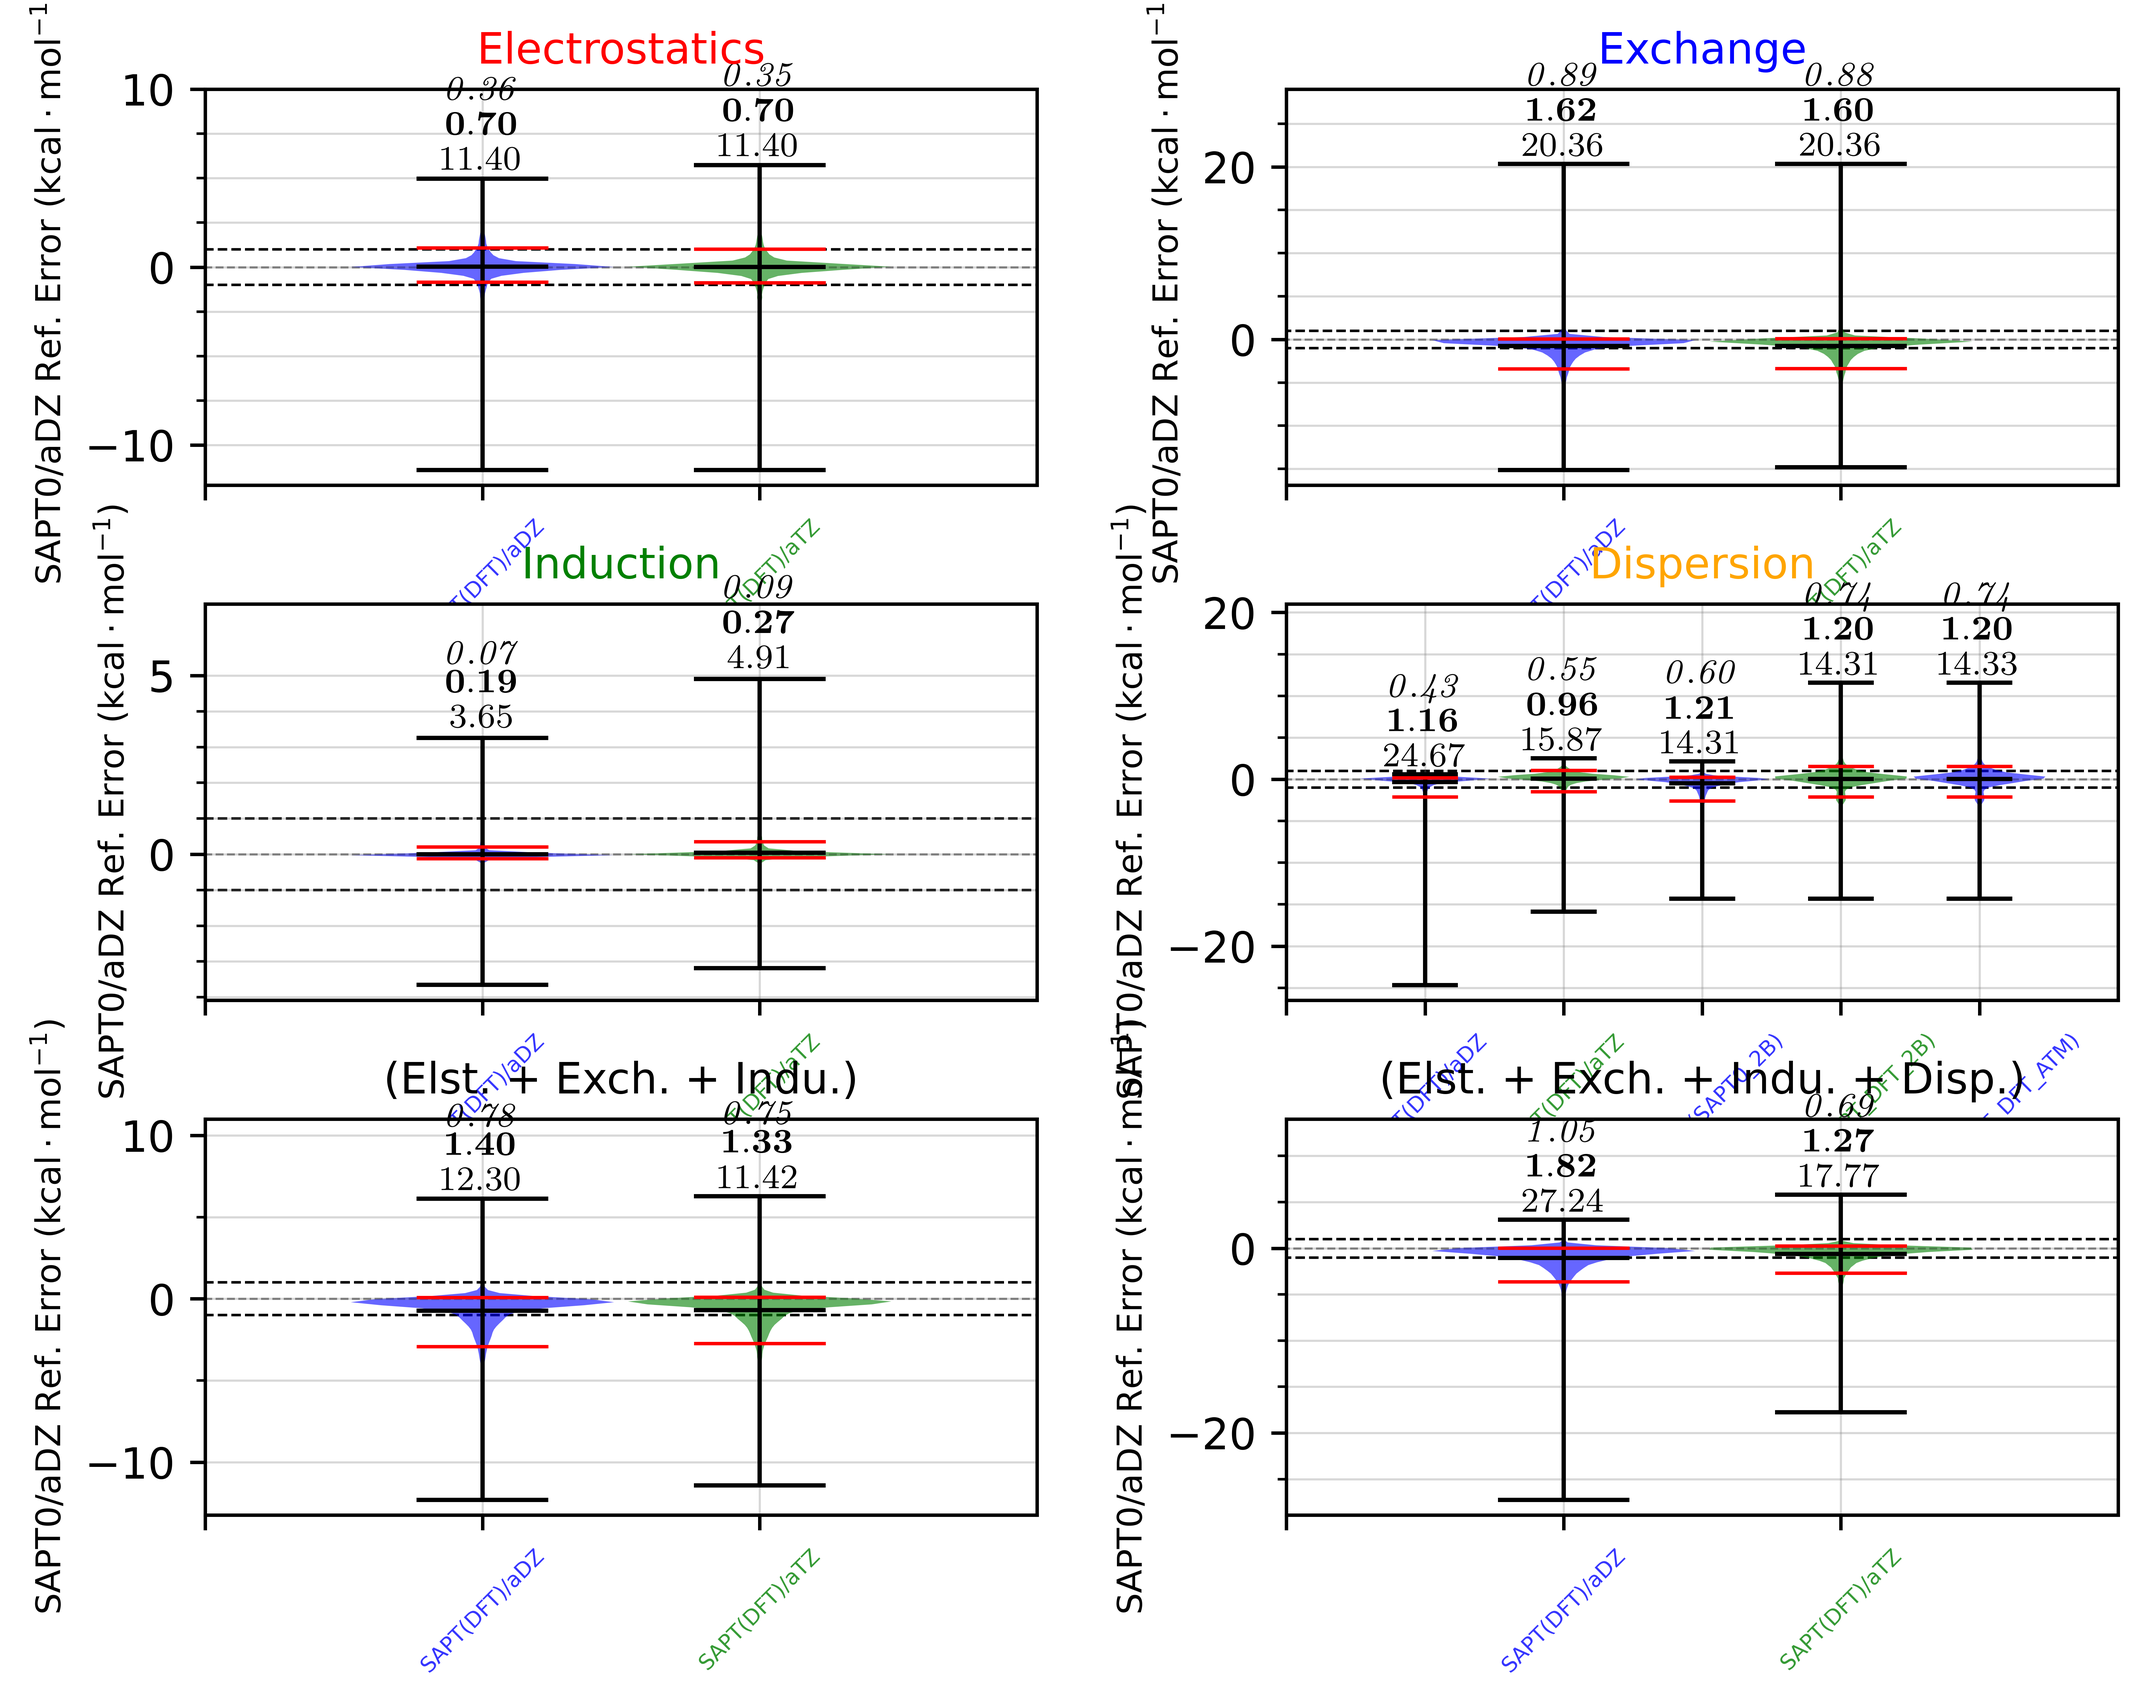
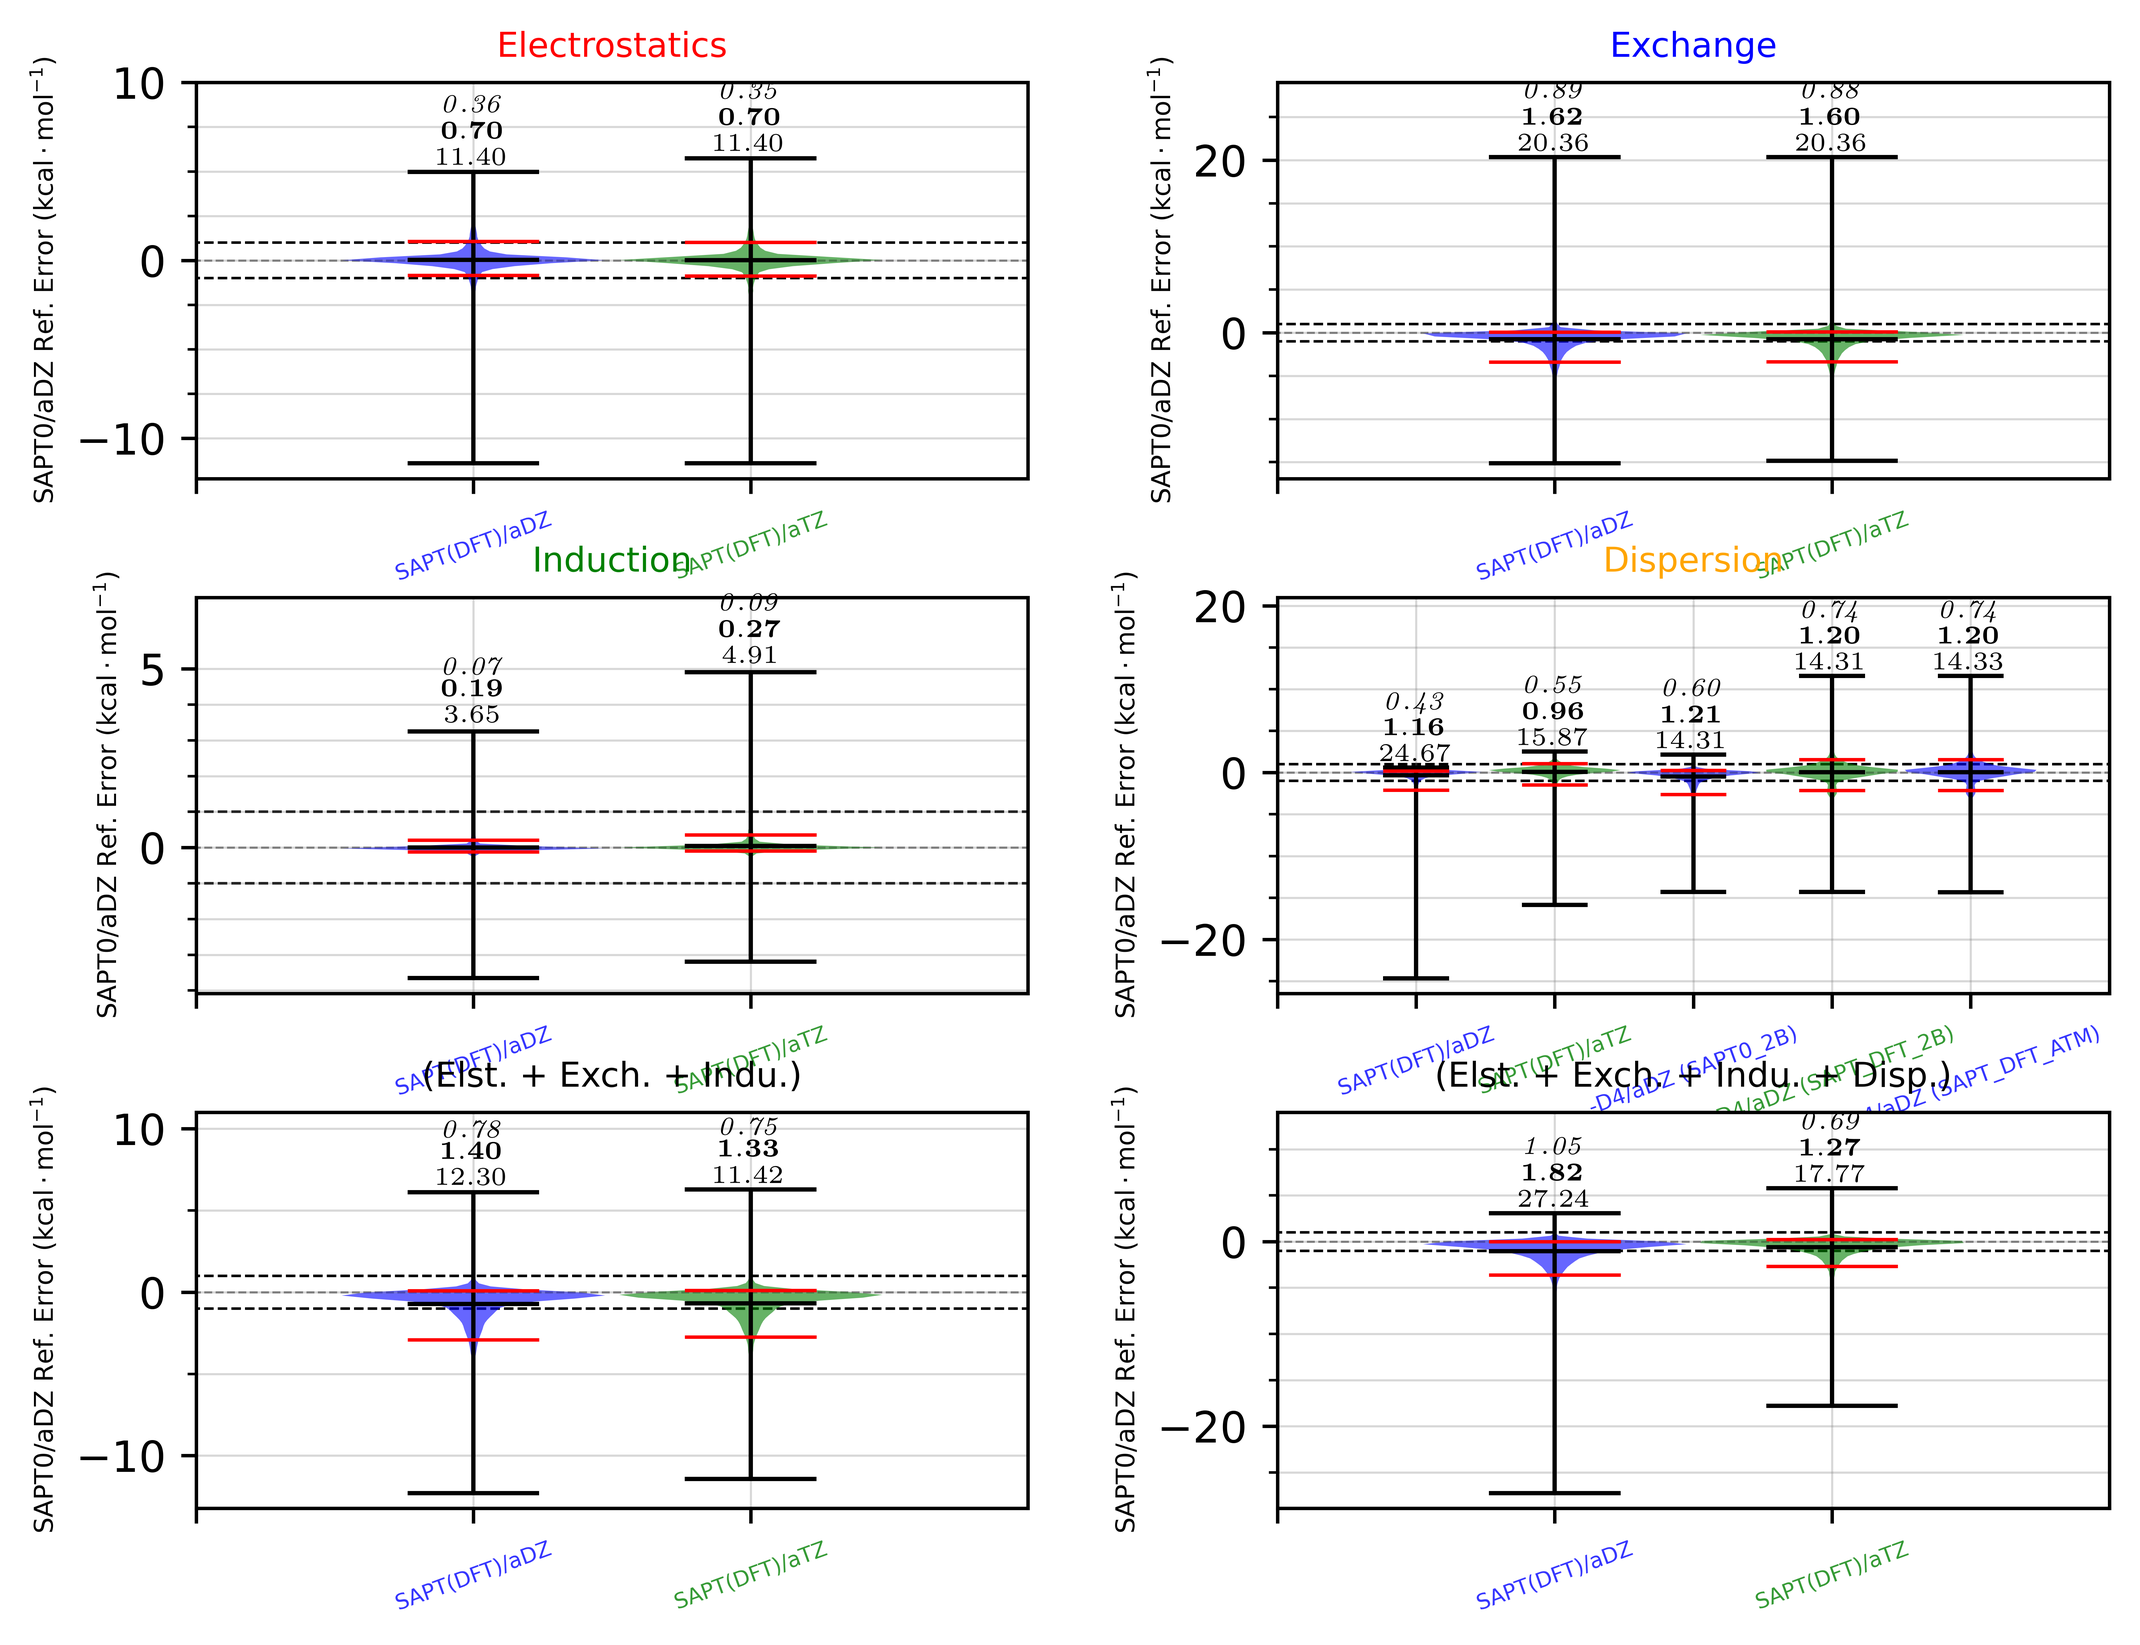
plot

diff --git a/src/plotting.py b/src/plotting.py
@@ -1172,13 +1172,13 @@ def collect_component_data(df, vals):
     annotations = []  # [(x, y, text), ...]
     cnt = 1
     plt.rcParams["text.usetex"] = True
-    print(vals)
+    # print(vals)
     for k, v in vals["vals"].items():
-        print(k, v)
+        # print(k, v)
         df[v] = pd.to_numeric(df[v])
         df[f"{v}_diff"] = df[vals["reference"][1]] - df[v]
         df_sub = df[df[f"{v}_diff"].notna()].copy()
-        print(df_sub[[vals["reference"][1], v, f"{v}_diff"]].describe())
+        # print(df_sub[[vals["reference"][1], v, f"{v}_diff"]].describe())
         vData.append(df_sub[f"{v}_diff"].to_list())
         vLabels.append(k)
         m = df_sub[f"{v}_diff"].max()
@@ -1291,19 +1291,18 @@ def plot_component_violin(
     navy_blue = (0.0, 0.32, 0.96)
     ax.set_xticks(xs)
     # plt.setp(ax.set_xticklabels(vLabels), rotation=90, fontsize="8")
-    plt.setp(ax.set_xticklabels(vLabels), rotation=45, fontsize="5")
+    plt.setp(ax.set_xticklabels(vLabels), rotation=20, fontsize="5")
     ax.set_xlim((0, len(vLabels)))
     # lg = ax.legend(loc="upper left", edgecolor="black", fontsize="8")
     # lg.get_frame().set_facecolor((1, 1, 1, 0.0))
 
     ylabel = f"{ylabel} Error" + r" ($\mathrm{kcal\cdot mol^{-1}}$)"
-    ax.set_ylabel(ylabel, color="k")
     # set minor ticks to be between major ticks
 
     ax.grid(color="grey", which="major", linewidth=0.5, alpha=0.3)
     ax.grid(color="grey", which="minor", linewidth=0.5, alpha=0.3)
     # Set subplot title
-    ax.set_ylabel(ylabel, color="k", fontsize="8")
+    ax.set_ylabel(ylabel, color="k", fontsize="6")
     title_color = "k"
     if title_name == "Electrostatics":
         title_color = "red"
@@ -1313,7 +1312,7 @@ def plot_component_violin(
         title_color = "green"
     elif title_name == "Dispersion":
         title_color = "orange"
-    ax.set_title(title_name, color=title_color, fontsize="10")
+    ax.set_title(title_name, color=title_color, fontsize="8")
 
     # Annotations of RMSE
     for x, y, text in annotations:
@@ -1322,7 +1321,7 @@ def plot_component_violin(
             xy=(x, y),
             xytext=(x, y + 0.1),
             color="black",
-            fontsize="8",
+            fontsize="6",
             horizontalalignment="center",
             verticalalignment="bottom",
         )
